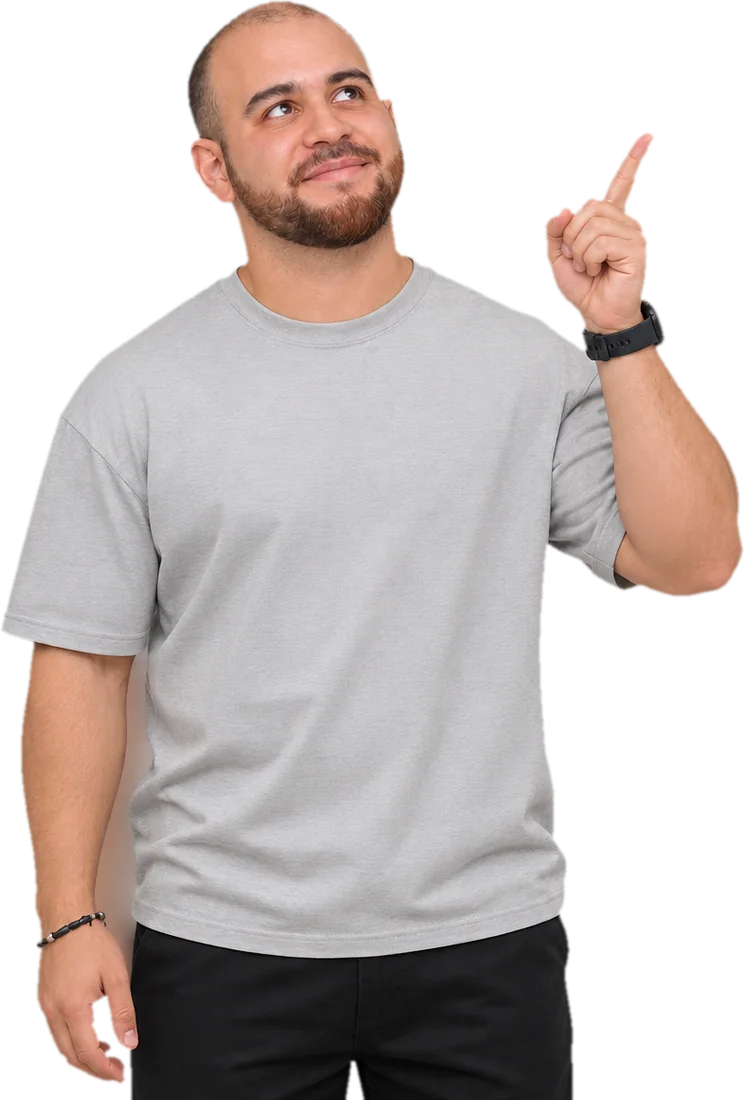
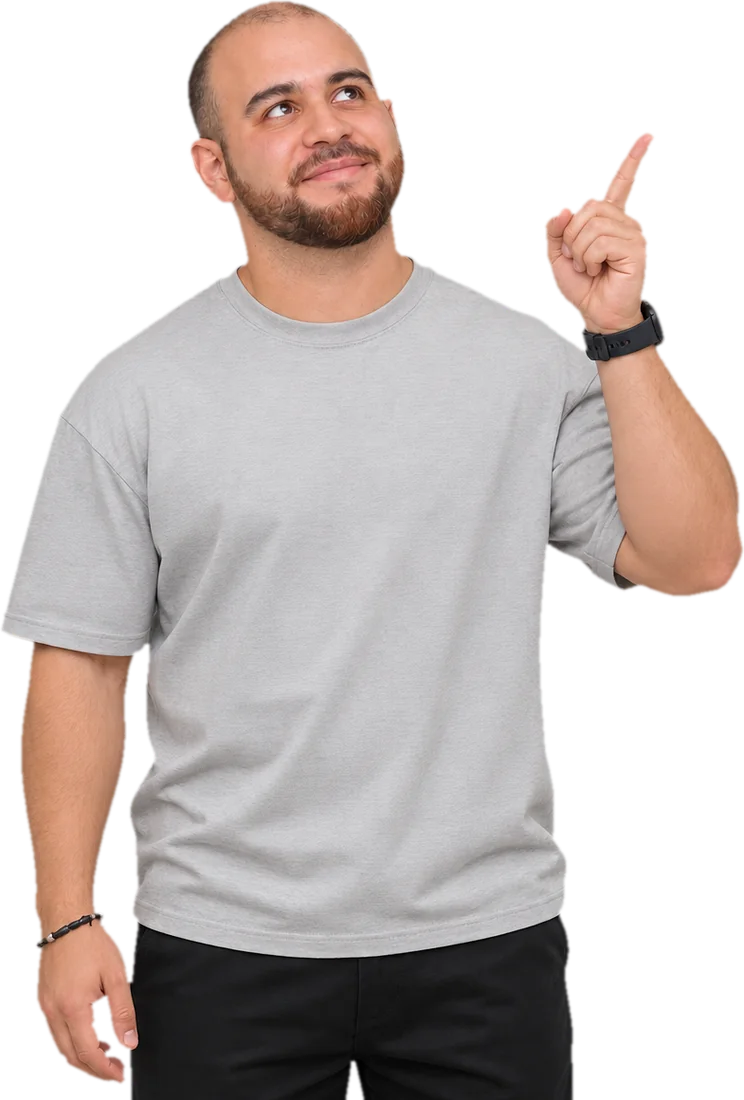
fix(cv): fondo limpio en la pose señalando arriba y cartel que no tapa la cara en móvil
- Se quita el resto de fondo entre el brazo y el cuerpo en la foto de camiseta gris
- En móvil, «¿Te sirve mi perfil?» va debajo de la foto

Claude-Session: https://claude.ai/code/session_019Nhd4j38ebEWyF7tpByTyP

Changed region(s): [[0.1237, 0.5873, 0.2164, 0.8964]]

diff --git a/src/app/brand.css b/src/app/brand.css
@@ -487,7 +487,7 @@ a:hover > .ck-alogo .ck-alogo-iso, .ck-alogo:hover .ck-alogo-iso { animation: ck
 .cv-cta-card .btn{align-self:flex-start}
 .cv-wa-me{width:38px;height:38px;border-radius:50%;object-fit:cover;background:#FFDCC7;flex:none}
 @media (max-width:860px){.cv-pop{min-height:460px}.cv-pop .cv-bubble{left:0;max-width:190px;font-size:14px}.cv-pop .cv-stat{right:0}.cv-arrow{display:none}.cv-ask{flex:1 1 100%;margin-bottom:-70px}}
-@media (max-width:560px){.cv-pop{min-height:420px}.cv-hold{left:8%;right:4%}.cv-peek{height:240px;top:-124px;right:4%}.cv-peek-bubble{right:calc(4% + 126px);top:-70px}.cv-ask-me{height:260px}.cv-ask-bubble{margin-bottom:110px}.cv-cta-me{flex:1 1 100%;min-height:340px;margin-top:-90px}}
+@media (max-width:560px){.cv-pop{min-height:420px}.cv-hold{left:8%;right:4%}.cv-peek{height:240px;top:-124px;right:4%}.cv-peek-bubble{right:calc(4% + 126px);top:-70px}.cv-ask-me{height:260px}.cv-aside-me{flex-direction:column!important;align-items:center!important}.cv-aside-bubble{position:relative!important;left:auto!important;top:auto!important;margin:0 auto 10px!important;align-self:center}.cv-ask-bubble{margin-bottom:110px}.cv-cta-me{flex:1 1 100%;min-height:340px;margin-top:-90px}}
 .cv-consult{position:relative;overflow:visible;margin-top:160px}
 .cv-consult-in{padding-left:min(330px, 31%)!important}
 .cv-consult-me{position:absolute;left:2%;bottom:0;height:calc(100% + 140px);width:min(300px, 28%);overflow:hidden;border-radius:0 0 0 26px;pointer-events:none}
